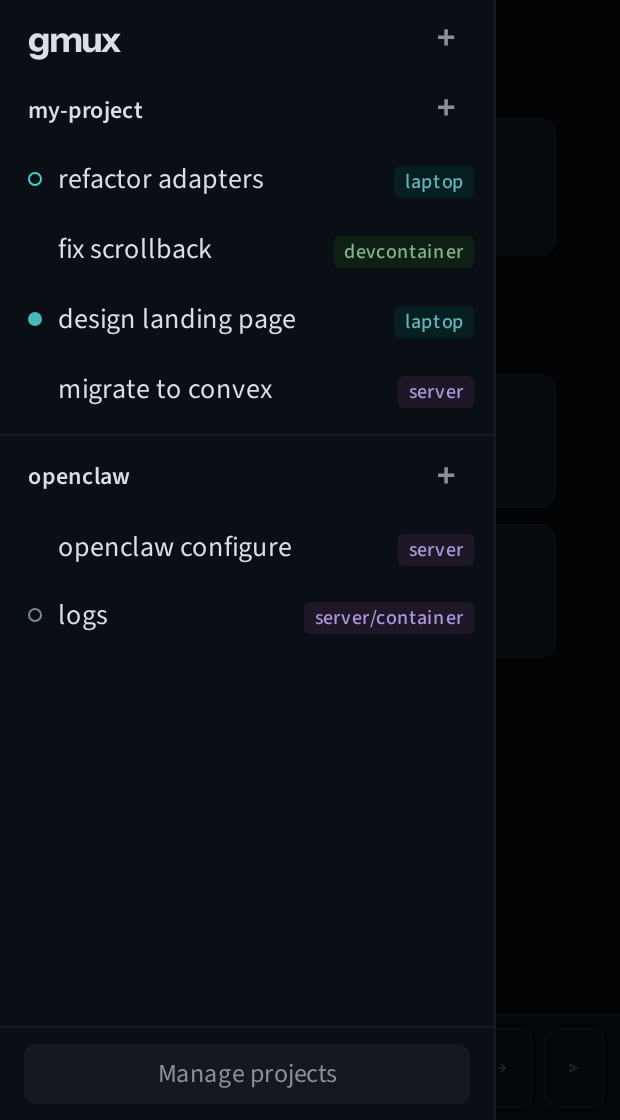
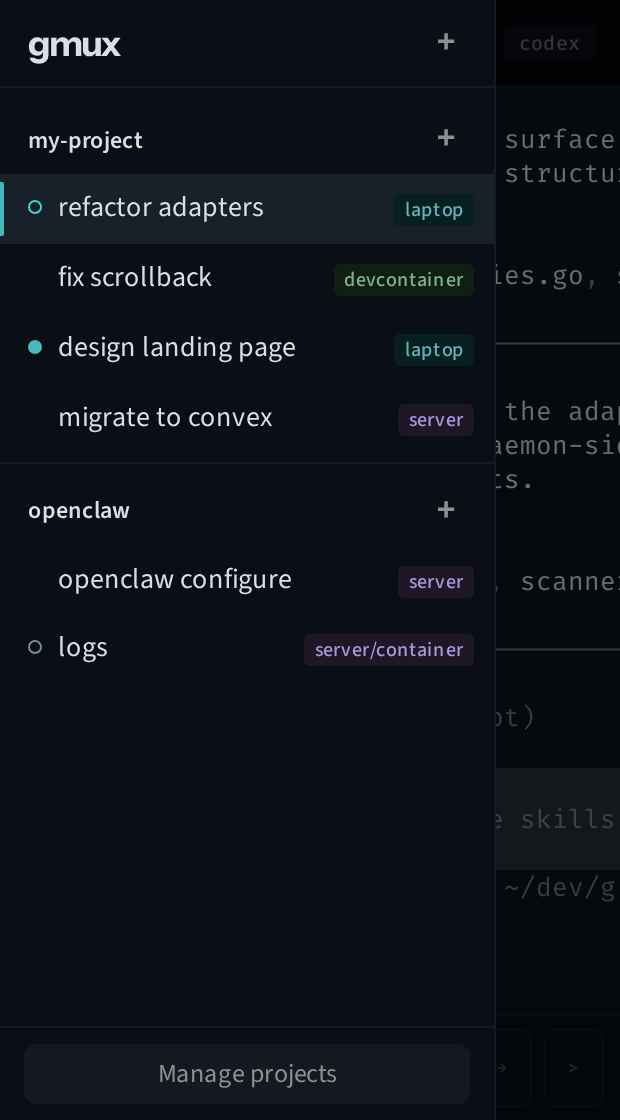
fix: OG meta tags, mock terminal rendering, remove stale hero.png
- Fix mock mode: set default terminalOptions and keybinds so the
  terminal view renders (was stuck on 'Connecting...' because
  fetchFrontendConfig runs after the mock early-return)
- Add OpenGraph and Twitter Card meta tags to landing page
  (og.png to be added separately)
- Remove stale hero.png placeholder from public/

diff --git a/apps/gmux-web/src/store.ts b/apps/gmux-web/src/store.ts
@@ -415,6 +415,8 @@ export function initStore(): () => void {
       sessions.value = mockSessions
       sessionsLoaded.value = true
       connState.value = 'connected'
+      terminalOptions.value = buildTerminalOptions(null, null)
+      keybinds.value = resolveKeybinds(null, false)
     })
     const activeIds = MOCK_SESSIONS.filter(s => s.mockActive).map(s => s.id)
     activeIds.forEach(id => handleActivity(id))
